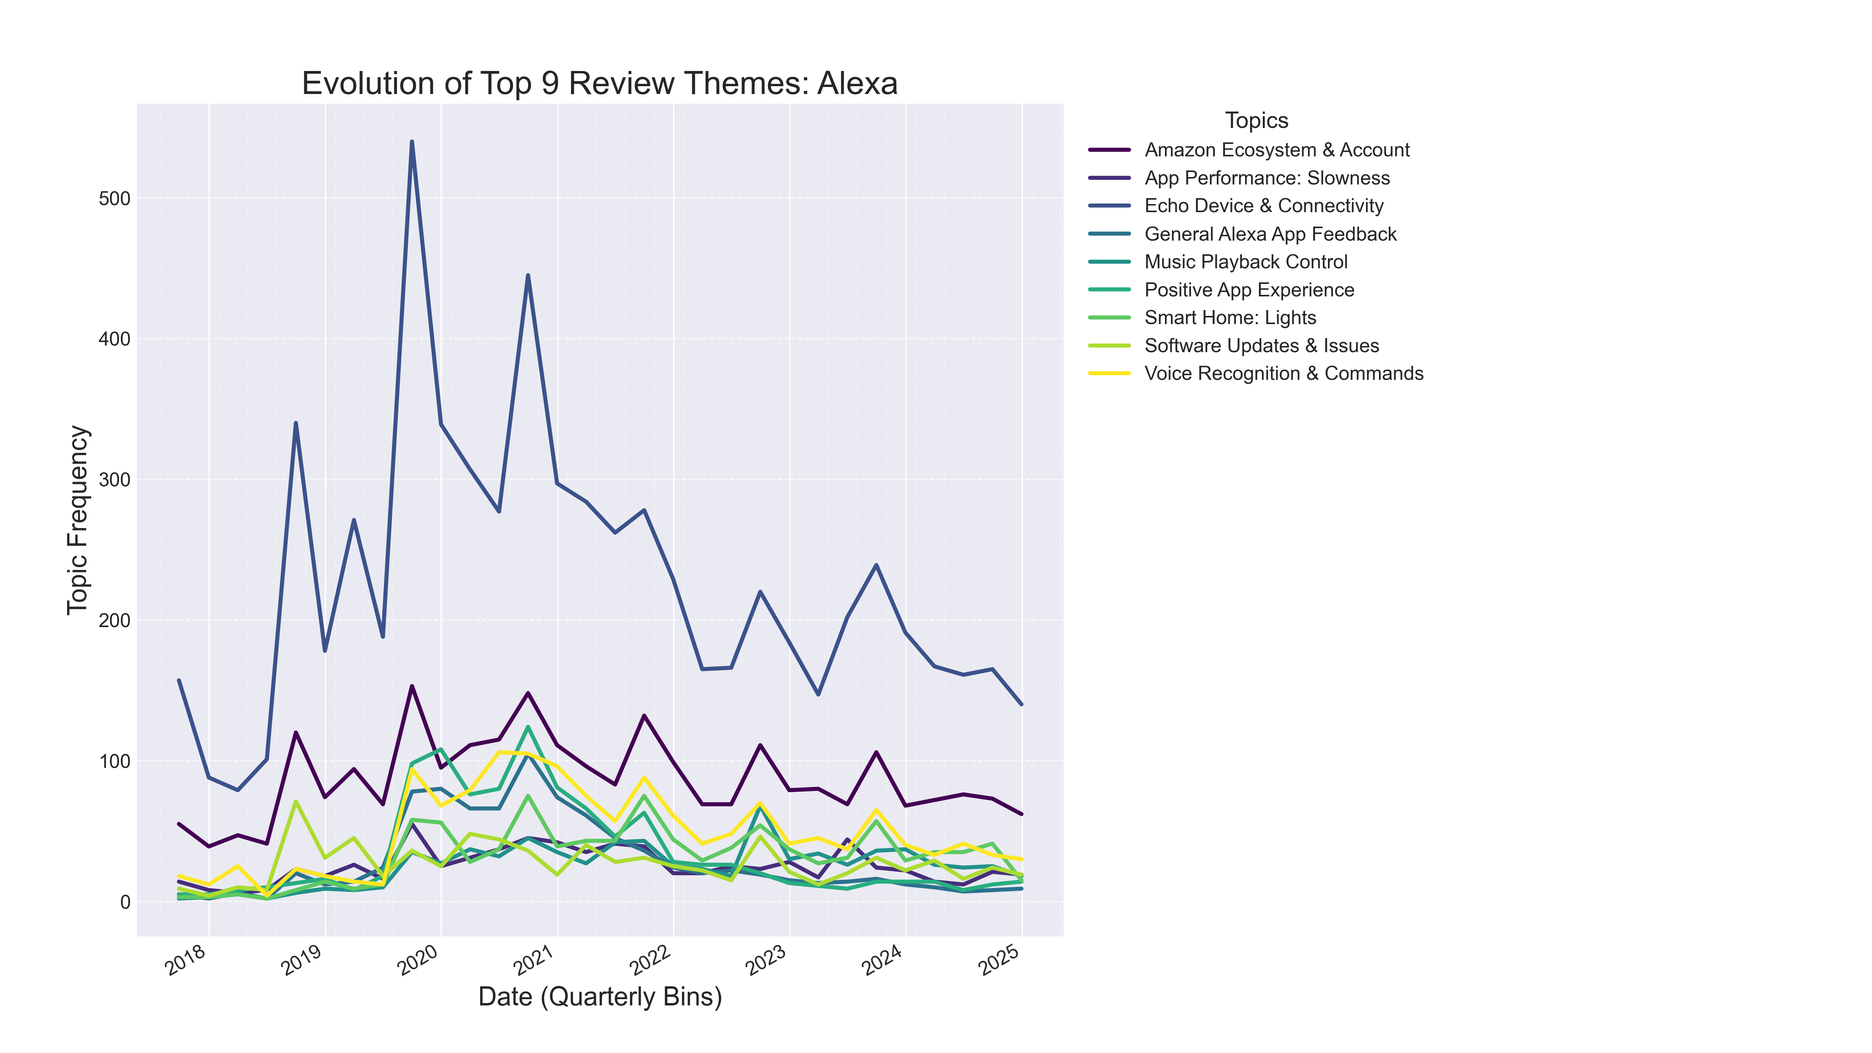
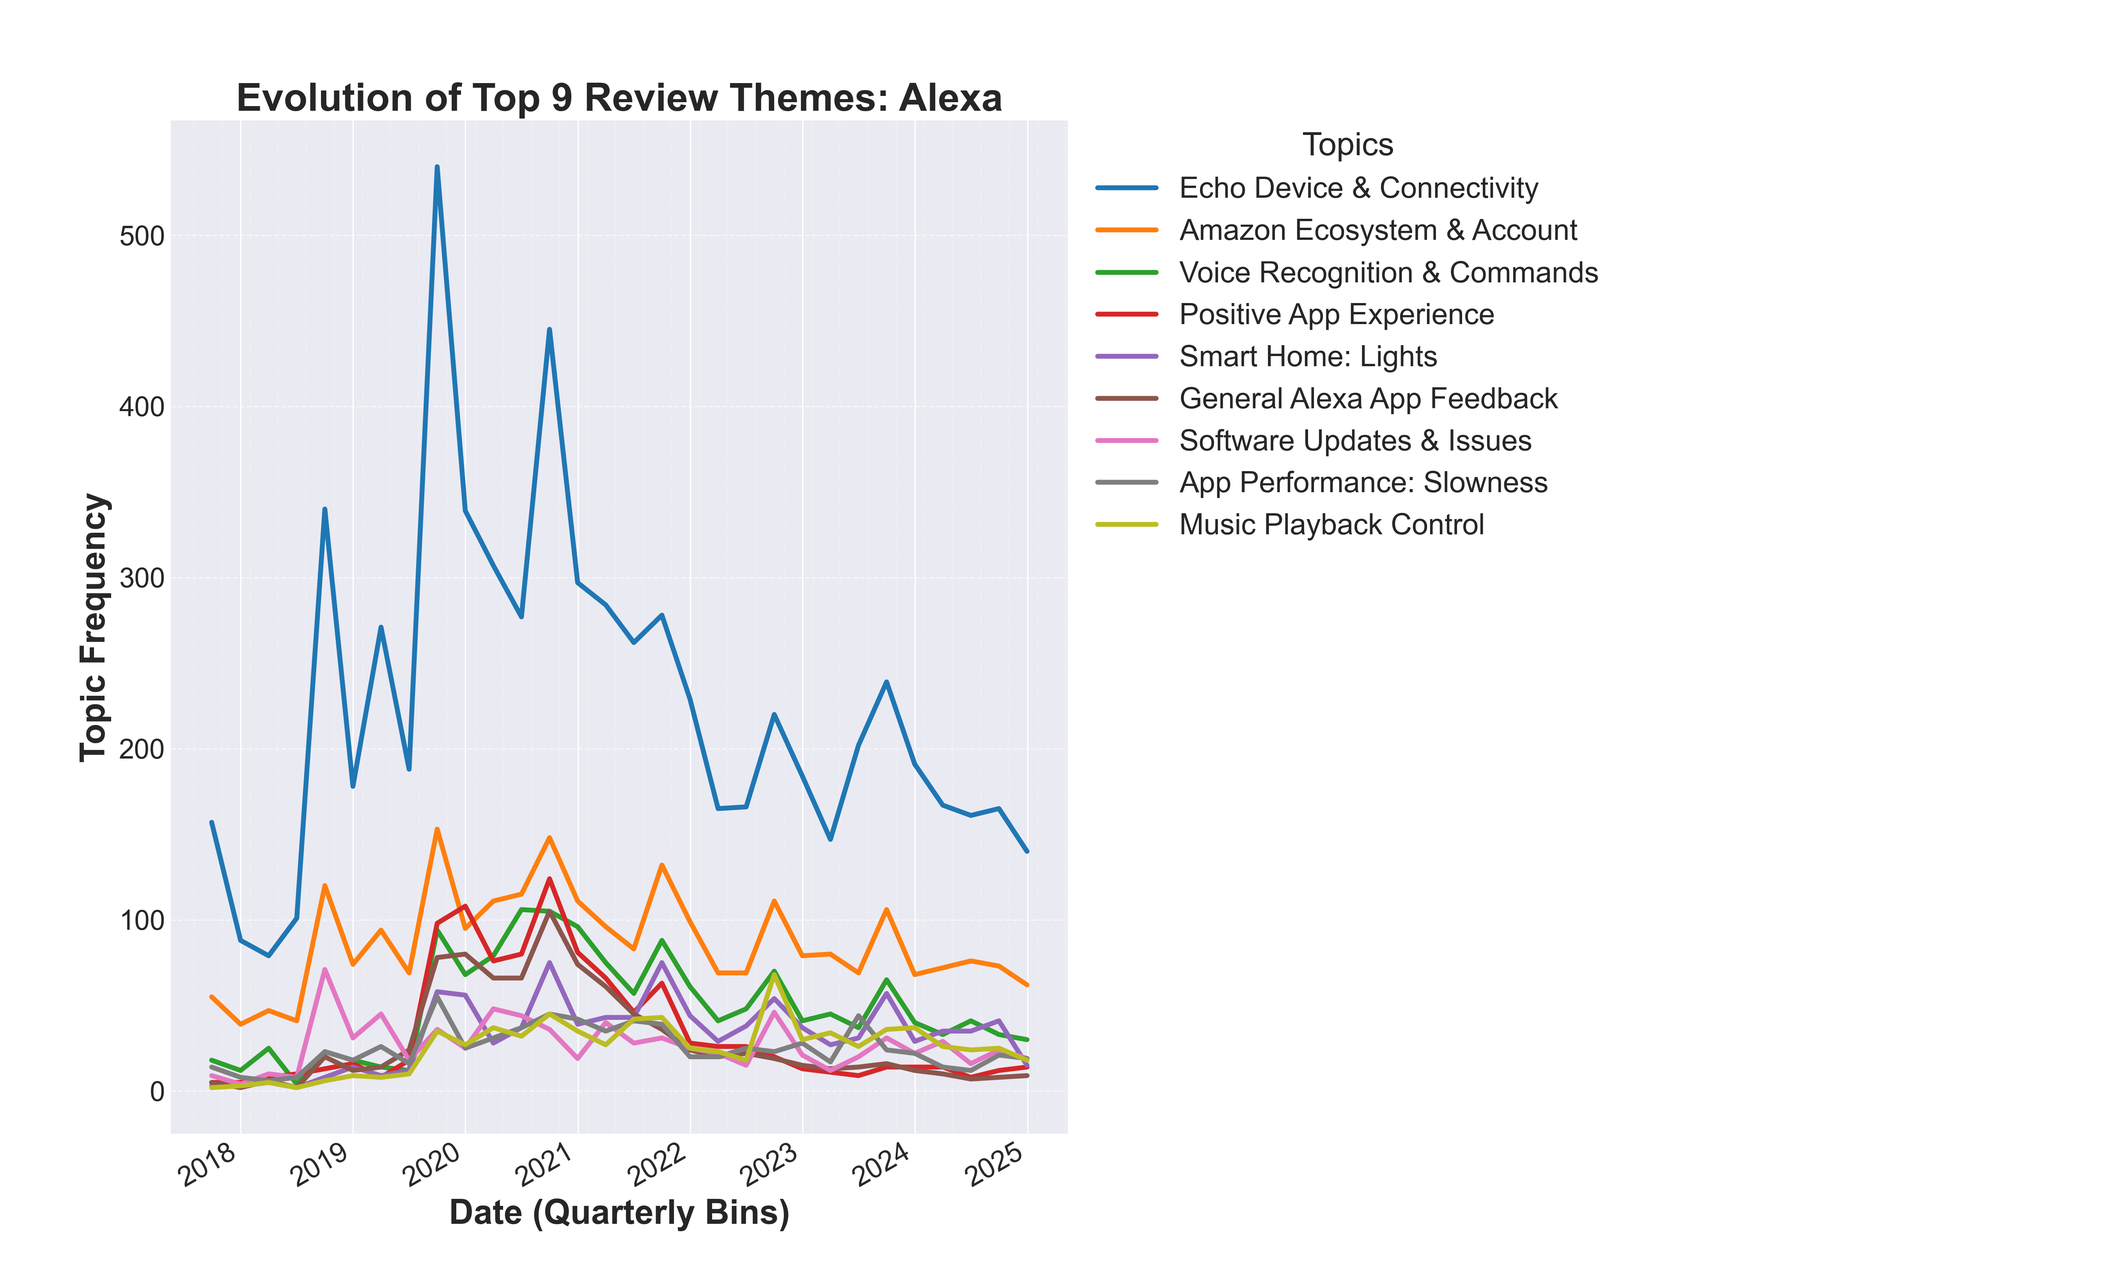
Update CSV files with new data and visualizations

diff --git a/scripts/topic_visuals.py b/scripts/topic_visuals.py
@@ -1,72 +1,73 @@
 import pandas as pd
-from bertopic import BERTopic # Still needed to load the model and use its methods
+import numpy as np
+from bertopic import BERTopic
 from pathlib import Path
 import os
 import traceback
-import matplotlib.pyplot as plt # For static plots
-import matplotlib.dates as mdates # For date formatting on static plots
-import seaborn as sns # For styling static plots
-import numpy as np
+import matplotlib.pyplot as plt
+import matplotlib.dates as mdates
+import seaborn as sns
+import warnings
+
 # --- Configuration ---
+warnings.filterwarnings("ignore", category=FutureWarning)
+
 BASE_DIR = Path(__file__).resolve().parent
 THESIS_ROOT = BASE_DIR.parent
 
 results_dir = THESIS_ROOT / "results"
-topic_model_output_dir = results_dir / "topic_models" # Output from previous script
-static_plots_output_dir = topic_model_output_dir / "topic_evolution_visuals" # New specific dir for these plots
+topic_model_output_dir = results_dir / "topic_models"
+static_plots_output_dir = topic_model_output_dir / "topic_evolution_visuals"
 static_plots_output_dir.mkdir(parents=True, exist_ok=True)
 
 platforms = ["alexa", "google"]
-num_topics_for_static_plot = 9 # You want to display top 9 in the static plot
+num_topics_for_static_plot = 9
 
-# Updated Descriptive Topic Names Here 
+# --- Descriptive Topic Names ---
 alexa_topic_id_to_name_map = {
     0: "Echo Device & Connectivity",
     1: "Amazon Ecosystem & Account",
     2: "Voice Recognition & Commands",
-    3: "Positive App Experience", # Simplified
+    3: "Positive App Experience",
     4: "Smart Home: Lights",
     5: "General Alexa App Feedback",
     6: "Software Updates & Issues",
     7: "Music Playback Control",
-    8: "App Performance: Slowness" # Simplified
-    # These are the top 9 based on counts from your full dataset run
+    8: "App Performance: Slowness"
 }
 
 google_topic_id_to_name_map = {
-    0: "Gemini AI Transition", # Simplified
+    0: "Gemini AI Transition",
     1: "Music & Song Playback",
-    2: "Device Lock/Unlock Issues", # Simplified
-    3: "Positive Sentiment", # Simplified
-    4: "Comparisons to Other VAs", # Simplified
-    5: "Google Pixel Device Issues", # Simplified
+    2: "Device Lock/Unlock Issues",
+    3: "Positive Sentiment",
+    4: "Comparisons to Other VAs",
+    5: "Google Pixel Device Issues",
     6: "App Ratings & Stars",
-    7: "Microphone Issues", # Simplified
-    8: "Updates & Google App Int." # Abbreviated for legend space
-    # These are the top 9 based on counts from your full dataset run
+    7: "Microphone Issues",
+    8: "Updates & Google App Int."
 }
 
-# --- Enhanced Visualization Parameters ---
+# --- !!! ADJUSTED: Enhanced Visualization Parameters !!! ---
 try:
+    # This style has a good default color cycle (tab10) for distinct lines
     plt.style.use('seaborn-v0_8-darkgrid')
 except IOError:
     print("Warning: 'seaborn-v0_8-darkgrid' not found. Using 'ggplot'.")
-    try:
-        plt.style.use('ggplot')
-    except IOError:
-        print("Warning: 'ggplot' not found. Using default Matplotlib style.")
+    plt.style.use('ggplot')
 
-plot_title_fontsize = 20 # Adjusted for typical thesis figures
-axis_label_fontsize = 16
-legend_title_fontsize = 14
-legend_text_fontsize = 12
-tick_label_fontsize = 12
-plot_linewidth = 2.5
+# Further increased font sizes for maximum readability
+plot_title_fontsize = 24
+axis_label_fontsize = 21
+legend_title_fontsize = 20
+legend_text_fontsize = 18
+tick_label_fontsize = 17
+plot_linewidth = 3.0
 
 
 def create_static_topic_evolution_plot(topics_over_time_df, topic_id_to_name_map, platform_name, num_topics_to_plot, output_path):
     """
-    Generates and saves a static line chart for topic evolution with enhanced text visibility.
+    Generates and saves a static line chart for topic evolution with larger fonts and distinct colors.
     """
     if topics_over_time_df.empty:
         print(f"No data in topics_over_time_df for {platform_name}. Skipping static plot.")
@@ -74,29 +75,15 @@ def create_static_topic_evolution_plot(topics_over_time_df, topic_id_to_name_map
 
     df_plot = topics_over_time_df[topics_over_time_df['Topic'] != -1].copy()
     df_plot['Topic_Name'] = df_plot['Topic'].map(topic_id_to_name_map)
-    # Keep only topics that are in our map for plotting, others will be ignored
-    df_plot = df_plot[df_plot['Topic_Name'].notna()]
-
+    df_plot = df_plot.dropna(subset=['Topic_Name'])
 
     if df_plot.empty:
-        print(f"No topics to plot for {platform_name} after mapping to provided names. Check your topic_id_to_name_map and topic IDs in topics_over_time_df.")
+        print(f"No topics to plot for {platform_name} after mapping names. Check your topic_id_to_name_map.")
         return
 
-    # Determine which of the named topics to display
-    # If the map contains <= num_topics_to_plot, display all of them
-    # Otherwise, pick the top N most frequent ones *that are in the map*
-    available_mapped_topic_names = sorted(list(df_plot['Topic_Name'].unique()))
-
-    if not available_mapped_topic_names:
-        print(f"No topics with provided names found in temporal data for {platform_name}. Skipping plot.")
-        return
-
-    if len(available_mapped_topic_names) <= num_topics_to_plot:
-        topics_to_display_names = available_mapped_topic_names
-    else:
-        # Calculate total frequency for mapped topics to select the top N
-        total_freq_mapped_topics = df_plot.groupby('Topic_Name')['Frequency'].sum().sort_values(ascending=False)
-        topics_to_display_names = total_freq_mapped_topics.head(num_topics_to_plot).index.tolist()
+    # Determine which of the named topics to display based on overall frequency
+    total_freq_mapped_topics = df_plot.groupby('Topic_Name')['Frequency'].sum().sort_values(ascending=False)
+    topics_to_display_names = total_freq_mapped_topics.head(num_topics_to_plot).index.tolist()
 
     df_plot_selected = df_plot[df_plot['Topic_Name'].isin(topics_to_display_names)]
 
@@ -104,58 +91,40 @@ def create_static_topic_evolution_plot(topics_over_time_df, topic_id_to_name_map
         print(f"No data for selected top named topics for {platform_name}. Skipping static plot.")
         return
         
-    plt.figure(figsize=(16, 9)) # Common 16:9 aspect ratio
+    plt.figure(figsize=(18, 11))
     
-    try:
-        # Pivot: Timestamp on index, Topic_Name on columns, Frequency as values
-        pivot_df = df_plot_selected.pivot_table(index='Timestamp', columns='Topic_Name', values='Frequency', fill_value=0)
-    except ValueError: # Handles cases with duplicate (Timestamp, Topic_Name) from different original topic IDs mapping to same name
-        print(f"Warning: Duplicate (Timestamp, Topic_Name) pairs for {platform_name}. Aggregating by sum for static plot.")
-        pivot_df = df_plot_selected.groupby(['Timestamp', 'Topic_Name'])['Frequency'].sum().unstack(fill_value=0)
+    pivot_df = df_plot_selected.pivot_table(index='Timestamp', columns='Topic_Name', values='Frequency', fill_value=0)
 
-    # Ensure the columns in pivot_df are only those we intend to plot, and in the desired order
     columns_to_plot_in_pivot = [name for name in topics_to_display_names if name in pivot_df.columns]
     if not columns_to_plot_in_pivot:
-        print(f"None of the selected topic names ({topics_to_display_names}) are in the pivot table columns for {platform_name}. Columns available: {pivot_df.columns.tolist()}. Skipping static plot.")
+        print(f"None of the selected topic names are in the pivot table columns for {platform_name}. Skipping static plot.")
         return
     
-    # Using a perceptually uniform colormap if many lines
-    if len(columns_to_plot_in_pivot) > 7:
-        colors = plt.cm.viridis(np.linspace(0, 1, len(columns_to_plot_in_pivot)))
-        pivot_df[columns_to_plot_in_pivot].plot(ax=plt.gca(), linewidth=plot_linewidth, color=colors)
-    else:
-        pivot_df[columns_to_plot_in_pivot].plot(ax=plt.gca(), linewidth=plot_linewidth)
+    # Let the default style's color cycle ('tab10') handle colors for better distinction
+    pivot_df[columns_to_plot_in_pivot].plot(ax=plt.gca(), linewidth=plot_linewidth)
 
-
-    plt.title(f'Evolution of Top {len(columns_to_plot_in_pivot)} Review Themes: {platform_name.capitalize()}', fontsize=plot_title_fontsize, fontweight='normal') # Normal weight for title
-    plt.xlabel('Date (Quarterly Bins)', fontsize=axis_label_fontsize)
-    plt.ylabel('Topic Frequency', fontsize=axis_label_fontsize)
+    plt.title(f'Evolution of Top {len(columns_to_plot_in_pivot)} Review Themes: {platform_name.capitalize()}', fontsize=plot_title_fontsize, fontweight='bold')
+    plt.xlabel('Date (Quarterly Bins)', fontsize=axis_label_fontsize, fontweight='bold')
+    plt.ylabel('Topic Frequency', fontsize=axis_label_fontsize, fontweight='bold')
     
-    # Place legend outside the plot if many items
-    if len(columns_to_plot_in_pivot) > 5:
-        plt.legend(title='Topics', bbox_to_anchor=(1.02, 1), loc='upper left', borderaxespad=0., 
-                   fontsize=legend_text_fontsize, title_fontsize=legend_title_fontsize)
-        plt.tight_layout(rect=[0.03, 0.03, 0.78, 0.95]) # Adjust right margin for external legend
-    else:
-        plt.legend(title='Topics', loc='best', fontsize=legend_text_fontsize, title_fontsize=legend_title_fontsize)
-        plt.tight_layout(rect=[0.03, 0.03, 0.97, 0.95]) # Standard tight layout
-
+    plt.legend(title='Topics', bbox_to_anchor=(1.02, 1), loc='upper left', borderaxespad=0., 
+               fontsize=legend_text_fontsize, title_fontsize=legend_title_fontsize)
     
     ax = plt.gca()
-    # Ensure 'Timestamp' is datetime for proper date formatting
-    if not pd.api.types.is_datetime64_any_dtype(pivot_df.index):
-        try:
-            pivot_df.index = pd.to_datetime(pivot_df.index)
-        except Exception as e_dt:
-            print(f"Warning: Could not convert pivot_df index to datetime for {platform_name}: {e_dt}")
+    try:
+        pivot_df.index = pd.to_datetime(pivot_df.index)
+    except Exception as e_dt:
+        print(f"Warning: Could not convert pivot_df index to datetime for {platform_name}: {e_dt}")
 
     ax.xaxis.set_major_locator(mdates.YearLocator())
     ax.xaxis.set_major_formatter(mdates.DateFormatter('%Y'))
-    ax.xaxis.set_minor_locator(mdates.MonthLocator(interval=3)) 
+    ax.xaxis.set_minor_locator(mdates.MonthLocator(interval=3))
     plt.xticks(rotation=30, ha='right', fontsize=tick_label_fontsize)
     plt.yticks(fontsize=tick_label_fontsize)
-    plt.grid(True, which='major', axis='y', linestyle='--', alpha=0.7)
-    plt.grid(True, which='minor', axis='x', linestyle=':', alpha=0.5)
+    plt.grid(True, which='major', axis='y', linestyle='--', alpha=0.6)
+    plt.grid(True, which='minor', axis='x', linestyle=':', alpha=0.4)
+    
+    plt.tight_layout(rect=[0.03, 0.03, 0.78, 0.95]) # Adjust margin for external legend
     
     plt.savefig(output_path, dpi=300)
     print(f"Saved static topic evolution plot to {output_path}")
@@ -163,6 +132,7 @@ def create_static_topic_evolution_plot(topics_over_time_df, topic_id_to_name_map
 
 
 # --- Main script execution loop ---
+# (The main loop remains the same as the previous version)
 for name in platforms:
     print(f"\n📊 Generating temporal topic analysis for {name}...")
 
@@ -172,10 +142,6 @@ for name in platforms:
             print(f"Error: Saved BERTopic model not found at {model_load_path}. Skipping {name}.")
             continue
         print(f"Loading saved BERTopic model from {model_load_path}...")
-        # When loading a model where save_embedding_model=False,
-        # you might need to pass the embedding model if BERTopic version requires it.
-        # However, BERTopic often can load without it if embeddings were generic.
-        # For safety, if it fails, one might need to pass the global embedding_model.
         topic_model = BERTopic.load(str(model_load_path))
         print(f"Model for {name} loaded successfully.")
 
@@ -187,108 +153,38 @@ for name in platforms:
         print(f"Loading dataframe with topics from {df_with_topics_path}...")
         df_sorted = pd.read_csv(df_with_topics_path, parse_dates=['at'])
         df_sorted['clean_content'] = df_sorted['clean_content'].astype(str)
-        
-        required_cols_loaded_df = ['at', 'clean_content', 'topic']
-        if not all(col in df_sorted.columns for col in required_cols_loaded_df):
-            missing_cols = [col for col in required_cols_loaded_df if col not in df_sorted.columns]
-            print(f"Error: Missing one or more required columns {missing_cols} in {df_with_topics_path.name}. Skipping {name}.")
-            continue
-            
-        # Ensure 'topic' column is integer for mapping
         df_sorted['topic'] = df_sorted['topic'].astype(int)
-
-        docs_for_oot = df_sorted['clean_content'].tolist()
-        timestamps_for_oot_raw = df_sorted['at'].tolist() # Already parsed as dates
         
-        # Filter out NaT timestamps and corresponding docs before topics_over_time
-        valid_indices = [i for i, ts in enumerate(timestamps_for_oot_raw) if pd.notna(ts)]
-        valid_docs_for_oot_final = [docs_for_oot[i] for i in valid_indices]
-        timestamps_for_oot_final = [timestamps_for_oot_raw[i] for i in valid_indices]
+        valid_indices = df_sorted['at'].notna()
+        valid_docs_for_oot_final = df_sorted.loc[valid_indices, 'clean_content'].tolist()
+        timestamps_for_oot_final = df_sorted.loc[valid_indices, 'at'].tolist()
 
-        if not timestamps_for_oot_final or len(valid_docs_for_oot_final) != len(timestamps_for_oot_final):
-            print(f"Error: Insufficient valid timestamps or mismatch for {name} after loading and validation. Skipping temporal analysis.")
+        if not timestamps_for_oot_final:
+            print(f"Error: Insufficient valid timestamps for {name}. Skipping temporal analysis.")
             continue
 
         print(f"Proceeding with temporal analysis for {name} using {len(valid_docs_for_oot_final)} documents with valid timestamps.")
 
         min_date = pd.Series(timestamps_for_oot_final).min()
         max_date = pd.Series(timestamps_for_oot_final).max()
-        num_quarters = 0
-        if pd.notna(min_date) and pd.notna(max_date) and max_date > min_date:
-            # Calculate number of full quarters between min and max date
-             num_quarters = (max_date.year - min_date.year) * 4 + (max_date.month - 1) // 3 - (min_date.month - 1) // 3 +1
         
+        num_quarters = (max_date.year - min_date.year) * 4 + (max_date.month - 1) // 3 - (min_date.month - 1) // 3 + 1 if pd.notna(min_date) and pd.notna(max_date) else 0
+
         print(f"Calculated date range for {name}: {min_date} to {max_date}, estimated {num_quarters} quarterly bins.")
 
-        topics_over_time_df = None
-        if num_quarters > 1: # Need at least 2 bins for a meaningful evolution plot
-            print(f"Generating topics over time with {num_quarters} bins (approximating quarters) for {name}.")
-            try:
-                topics_over_time_df = topic_model.topics_over_time(
-                    valid_docs_for_oot_final,
-                    timestamps_for_oot_final,
-                    nr_bins=num_quarters, # Use calculated number of quarters
-                    datetime_format='%Y-%m-%d %H:%M:%S' # Example, ensure it matches your 'at' column
-                )
-            except Exception as e_oot:
-                print(f"Error generating topics_over_time with {num_quarters} bins: {e_oot}")
-                traceback.print_exc()
-                print("Attempting default BERTopic temporal binning...")
-        
-        if topics_over_time_df is None or topics_over_time_df.empty: # If previous failed or num_quarters too low
-             print(f"Attempting default BERTopic temporal binning for {name} as quarterly binning failed or was not applicable.")
-             try:
-                topics_over_time_df = topic_model.topics_over_time(
-                    valid_docs_for_oot_final,
-                    timestamps_for_oot_final,
-                    datetime_format='%Y-%m-%d %H:%M:%S'
-                )
-             except Exception as e_oot_default:
-                print(f"Error generating topics_over_time with default binning: {e_oot_default}")
-                traceback.print_exc()
-
+        topics_over_time_df = topic_model.topics_over_time(
+            valid_docs_for_oot_final,
+            timestamps_for_oot_final,
+            nr_bins=num_quarters if num_quarters > 1 else None
+        )
 
         if topics_over_time_df is None or topics_over_time_df.empty:
             print(f"Warning: topics_over_time returned an empty DataFrame for {name}. No temporal data to save or visualize.")
         else:
-            # Ensure Timestamp column is datetime
             topics_over_time_df['Timestamp'] = pd.to_datetime(topics_over_time_df['Timestamp'])
             oot_csv_path = topic_model_output_dir / f"{name}_topics_over_time.csv"
-            topics_over_time_df.to_csv(oot_csv_path, index=False) 
+            topics_over_time_df.to_csv(oot_csv_path, index=False)
             print(f"Topics over time data SAVED to {oot_csv_path}")
-
-            topic_counts = topic_model.get_topic_info()
-            valid_model_topics = topic_counts[topic_counts['Topic'] != -1]['Topic'].tolist()
-            top_n_viz_html = 15 
-            
-            viz_topics_overall_html = []
-            if valid_model_topics:
-                viz_topics_overall_html = topic_counts[topic_counts['Topic'].isin(valid_model_topics)].sort_values('Count', ascending=False)['Topic'].head(top_n_viz_html).tolist()
-            
-            topics_in_oot_df = topics_over_time_df['Topic'].unique()
-            final_topics_for_oot_viz_html = [t for t in viz_topics_overall_html if t in topics_in_oot_df and t != -1]
-
-            if not final_topics_for_oot_viz_html and any(t != -1 for t in topics_in_oot_df):
-                non_outlier_oot_topics = sorted([t for t in topics_in_oot_df if t != -1]) # Sort for consistency
-                if non_outlier_oot_topics:
-                    # Select based on overall frequency in topics_over_time_df for relevant topics
-                    oot_topic_counts_in_df = topics_over_time_df[topics_over_time_df['Topic'].isin(non_outlier_oot_topics)]\
-                                             .groupby('Topic')['Frequency'].sum().reset_index()
-                    final_topics_for_oot_viz_html = oot_topic_counts_in_df.sort_values('Frequency', ascending=False)['Topic'].head(min(top_n_viz_html, len(non_outlier_oot_topics))).tolist()
-
-
-            if final_topics_for_oot_viz_html:
-                print(f"Visualizing HTML evolution for topics: {final_topics_for_oot_viz_html} for {name}")
-                try:
-                    fig_html = topic_model.visualize_topics_over_time(topics_over_time_df, topics=final_topics_for_oot_viz_html)
-                    oot_html_path = topic_model_output_dir / f"{name}_topic_evolution.html"
-                    fig_html.write_html(str(oot_html_path)) 
-                    print(f"HTML topic evolution plot SAVED to {oot_html_path}")
-                except Exception as e_vis_html:
-                    print(f"Error (re)visualizing HTML topics over time for {name}: {e_vis_html}")
-                    traceback.print_exc()
-            else:
-                print(f"No suitable topics found for HTML temporal evolution visualization for {name}.")
 
             # --- Call the function to generate static plot ---
             static_plot_file_path = static_plots_output_dir / f"{name}_static_topic_evolution_top{num_topics_for_static_plot}.png"
@@ -304,7 +200,7 @@ for name in platforms:
 
     except FileNotFoundError as e_fnf:
         print(f"FileNotFoundError for {name}: {e_fnf}")
-        traceback.print_exc() # Added traceback for FileNotFoundError
+        traceback.print_exc()
     except Exception as e:
         print(f"An unexpected error occurred while processing {name}: {e}")
         traceback.print_exc()
